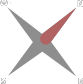
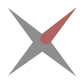
Add support for compass rose in all 8 cardinal directions

diff --git a/web/css/dynmap_style.css b/web/css/dynmap_style.css
@@ -565,29 +565,55 @@
  * Compass
  */
 
-.compass {
+.compass, .compass_NE, .compass_SE, .compass_NW, .compass_SW {
     display: block;
     position: absolute;
     z-index: 10;
-
     top: 20px;
     right: 32px;
-
     height: 84px;
     width: 83px;
-
     background-repeat: no-repeat;
+}
+
+.compass, .compass_SE {
     background-image: url(../images/compass.png);
 }
 
-.compass_flat {
+.compass_NE {
+    background-image: url(../images/compass_NE.png);
+}
+
+.compass_NW {
+    background-image: url(../images/compass_NW.png);
+}
+
+.compass_SW {
+    background-image: url(../images/compass_SW.png);
+}
+
+.compass_flat, .compass_N, .compass_E, .compass_W, .compass_S {
 	top: 10px;
 	right: 21px;
 
 	height: 105px;
 	width: 105px;
+}
 
+.compass_flat, .compass_S {
 	background-image: url(../images/compass_flat.png);
+}
+
+.compass_N {
+	background-image: url(../images/compass_N.png);
+}
+
+.compass_E {
+	background-image: url(../images/compass_E.png);
+}
+
+.compass_W {
+	background-image: url(../images/compass_W.png);
 }
 
 /*******************

diff --git a/web/js/map.js b/web/js/map.js
@@ -292,7 +292,6 @@ DynMap.prototype = {
 		
 		var updateHeight = function() {
 			playerlist.height(sidebar.innerHeight() - (playerlist.offset().top - worldlist.offset().top) - 64); // here we need a fix to avoid the static value, but it works fine this way :P
-			console.log('scrollheight=' + playerlist.scrollHeight() + ', height=' + playerlist.height());
 			var scrollable = playerlist.scrollHeight() < playerlist.height();
 			upbtn.toggle(scrollable);
 			downbtn.toggle(scrollable);
@@ -357,8 +356,10 @@ DynMap.prototype = {
 		}
 		$(me).trigger('mapchanging');
 		if (me.maptype) {
+			$('.compass').removeClass('compass_' + me.maptype.compassview);
 			$('.compass').removeClass('compass_' + me.maptype.name);
 		}
+		$('.compass').addClass('compass_' + map.compassview);
 		$('.compass').addClass('compass_' + map.name);
 		var worldChanged = me.world !== map.world;
 		var projectionChanged = me.map.getProjection() !== map.projection;

diff --git a/src/main/java/org/dynmap/DynmapPlugin.java b/src/main/java/org/dynmap/DynmapPlugin.java
@@ -75,7 +75,7 @@ public class DynmapPlugin extends JavaPlugin {
 
     /* Add/Replace branches in configuration tree with contribution from a separate file */
     @SuppressWarnings("unchecked")
-    private void mergeConfigurationBranch(ConfigurationNode cfgnode, String branch, boolean replace_existing) {
+    private void mergeConfigurationBranch(ConfigurationNode cfgnode, String branch, boolean replace_existing, boolean islist) {
         Object srcbranch = cfgnode.getObject(branch);
         if(srcbranch == null)
             return;
@@ -86,9 +86,9 @@ public class DynmapPlugin extends JavaPlugin {
             return;
         }
         /* If list, merge by "name" attribute */
-        if((srcbranch instanceof List) && (destbranch instanceof List)) {
-            List<ConfigurationNode> dest = (List<ConfigurationNode>)destbranch;
-            List<ConfigurationNode> src = (List<ConfigurationNode>)srcbranch;
+        if(islist) {
+            List<ConfigurationNode> dest = configuration.getNodes(branch);
+            List<ConfigurationNode> src = cfgnode.getNodes(branch);
             /* Go through new records : see what to do with each */
             for(ConfigurationNode node : src) {
                 String name = node.getString("name", null);
@@ -96,7 +96,7 @@ public class DynmapPlugin extends JavaPlugin {
                 /* Walk destination - see if match */
                 boolean matched = false;
                 for(ConfigurationNode dnode : dest) {
-                    String dname = node.getString("name", null);
+                    String dname = dnode.getString("name", null);
                     if(dname == null) continue;
                     if(dname.equals(name)) {    /* Match? */
                         if(replace_existing) {
@@ -112,11 +112,12 @@ public class DynmapPlugin extends JavaPlugin {
                     dest.add(node);
                 }
             }
+            configuration.put(branch,dest);
         }
         /* If configuration node, merge by key */
-        else if((srcbranch instanceof ConfigurationNode) && (destbranch instanceof ConfigurationNode)) {
-            ConfigurationNode src = (ConfigurationNode)srcbranch;
-            ConfigurationNode dest = (ConfigurationNode)destbranch;
+        else {
+            ConfigurationNode src = cfgnode.getNode(branch);
+            ConfigurationNode dest = configuration.getNode(branch);
             for(String key : src.keySet()) {    /* Check each contribution */
                 if(dest.containsKey(key)) { /* Exists? */
                     if(replace_existing) {  /* If replacing, do so */
@@ -173,7 +174,7 @@ public class DynmapPlugin extends JavaPlugin {
             org.bukkit.util.config.Configuration cfg = new org.bukkit.util.config.Configuration(f);
             cfg.load();
             ConfigurationNode cn = new ConfigurationNode(cfg);
-            mergeConfigurationBranch(cn, "worlds", true);
+            mergeConfigurationBranch(cn, "worlds", true, true);
         }
         else {
             try {
@@ -192,7 +193,7 @@ public class DynmapPlugin extends JavaPlugin {
             org.bukkit.util.config.Configuration cfg = new org.bukkit.util.config.Configuration(f);
             cfg.load();
             ConfigurationNode cn = new ConfigurationNode(cfg);
-            mergeConfigurationBranch(cn, "templates", false);
+            mergeConfigurationBranch(cn, "templates", false, false);
         }
 
         /* Now, process custom-templates.txt - these are user supplied, so override anything matcing */
@@ -201,7 +202,7 @@ public class DynmapPlugin extends JavaPlugin {
             org.bukkit.util.config.Configuration cfg = new org.bukkit.util.config.Configuration(f);
             cfg.load();
             ConfigurationNode cn = new ConfigurationNode(cfg);
-            mergeConfigurationBranch(cn, "templates", true);
+            mergeConfigurationBranch(cn, "templates", true, false);
         }
         else {
             try {

diff --git a/src/main/java/org/dynmap/hdmap/IsoHDPerspective.java b/src/main/java/org/dynmap/hdmap/IsoHDPerspective.java
@@ -928,6 +928,7 @@ public class IsoHDPerspective implements HDPerspective {
         return name;
     }
 
+    private static String[] directions = { "N", "NE", "E", "SE", "S", "SW", "W", "NW" };
     @Override
     public void addClientConfiguration(JSONObject mapObject) {
         s(mapObject, "perspective", name);
@@ -936,5 +937,8 @@ public class IsoHDPerspective implements HDPerspective {
         s(mapObject, "scale", scale);
         s(mapObject, "worldtomap", world_to_map.toJSON());
         s(mapObject, "maptoworld", map_to_world.toJSON());
+        int dir = ((360 + (int)(22.5+azimuth)) / 45) % 8;;
+        s(mapObject, "compassview", directions[dir]);
+
     }
 }

diff --git a/src/main/java/org/dynmap/kzedmap/DefaultTileRenderer.java b/src/main/java/org/dynmap/kzedmap/DefaultTileRenderer.java
@@ -579,6 +579,7 @@ public class DefaultTileRenderer implements MapTileRenderer {
         s(o, "backgroundday", c.getString("backgroundday"));
         s(o, "backgroundnight", c.getString("backgroundnight"));
         s(o, "bigmap", map.isBigWorldMap(world));
+        s(o, "compassview", "SE");   /* Always from southeast */
         a(worldObject, "maps", o);
     }
 }

diff --git a/src/main/java/org/dynmap/flat/FlatMap.java b/src/main/java/org/dynmap/flat/FlatMap.java
@@ -518,6 +518,7 @@ public class FlatMap extends MapType {
         s(o, "backgroundday", c.getString("backgroundday"));
         s(o, "backgroundnight", c.getString("backgroundnight"));
         s(o, "bigmap", this.isBigWorldMap(world));
+        s(o, "compassview", "S");   /* Always from south */
         a(worldObject, "maps", o);
     }
 }
